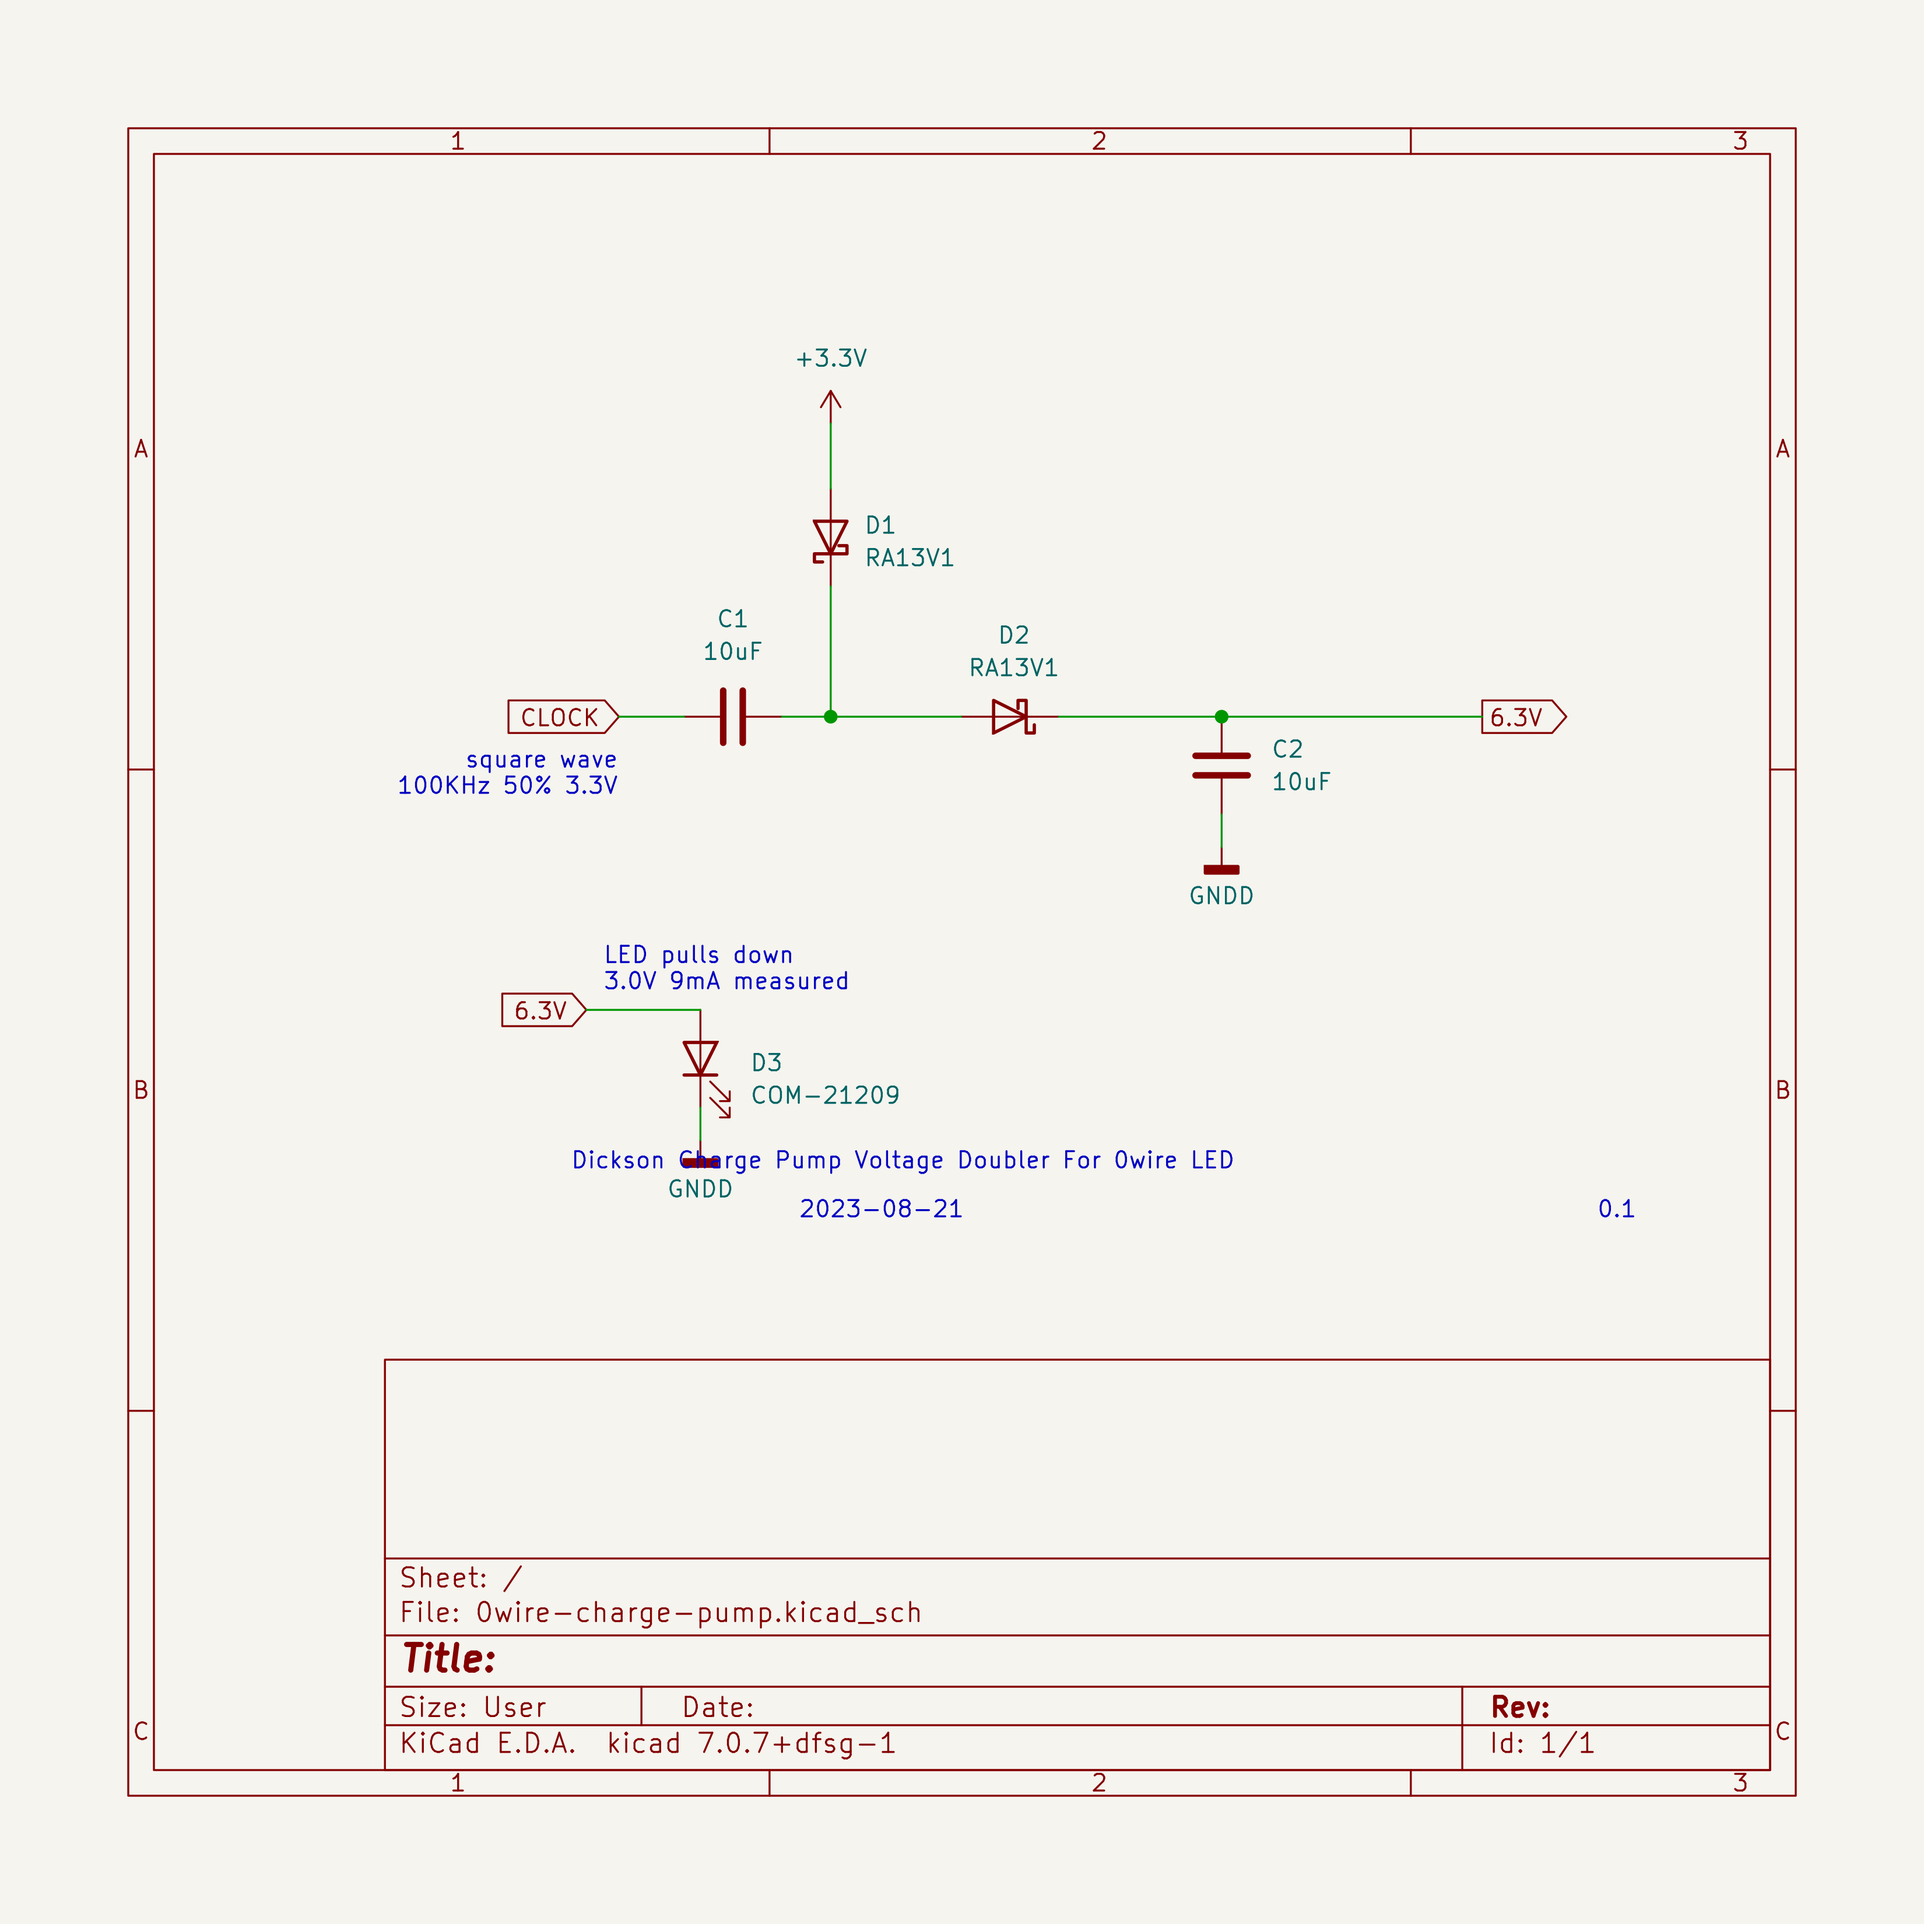
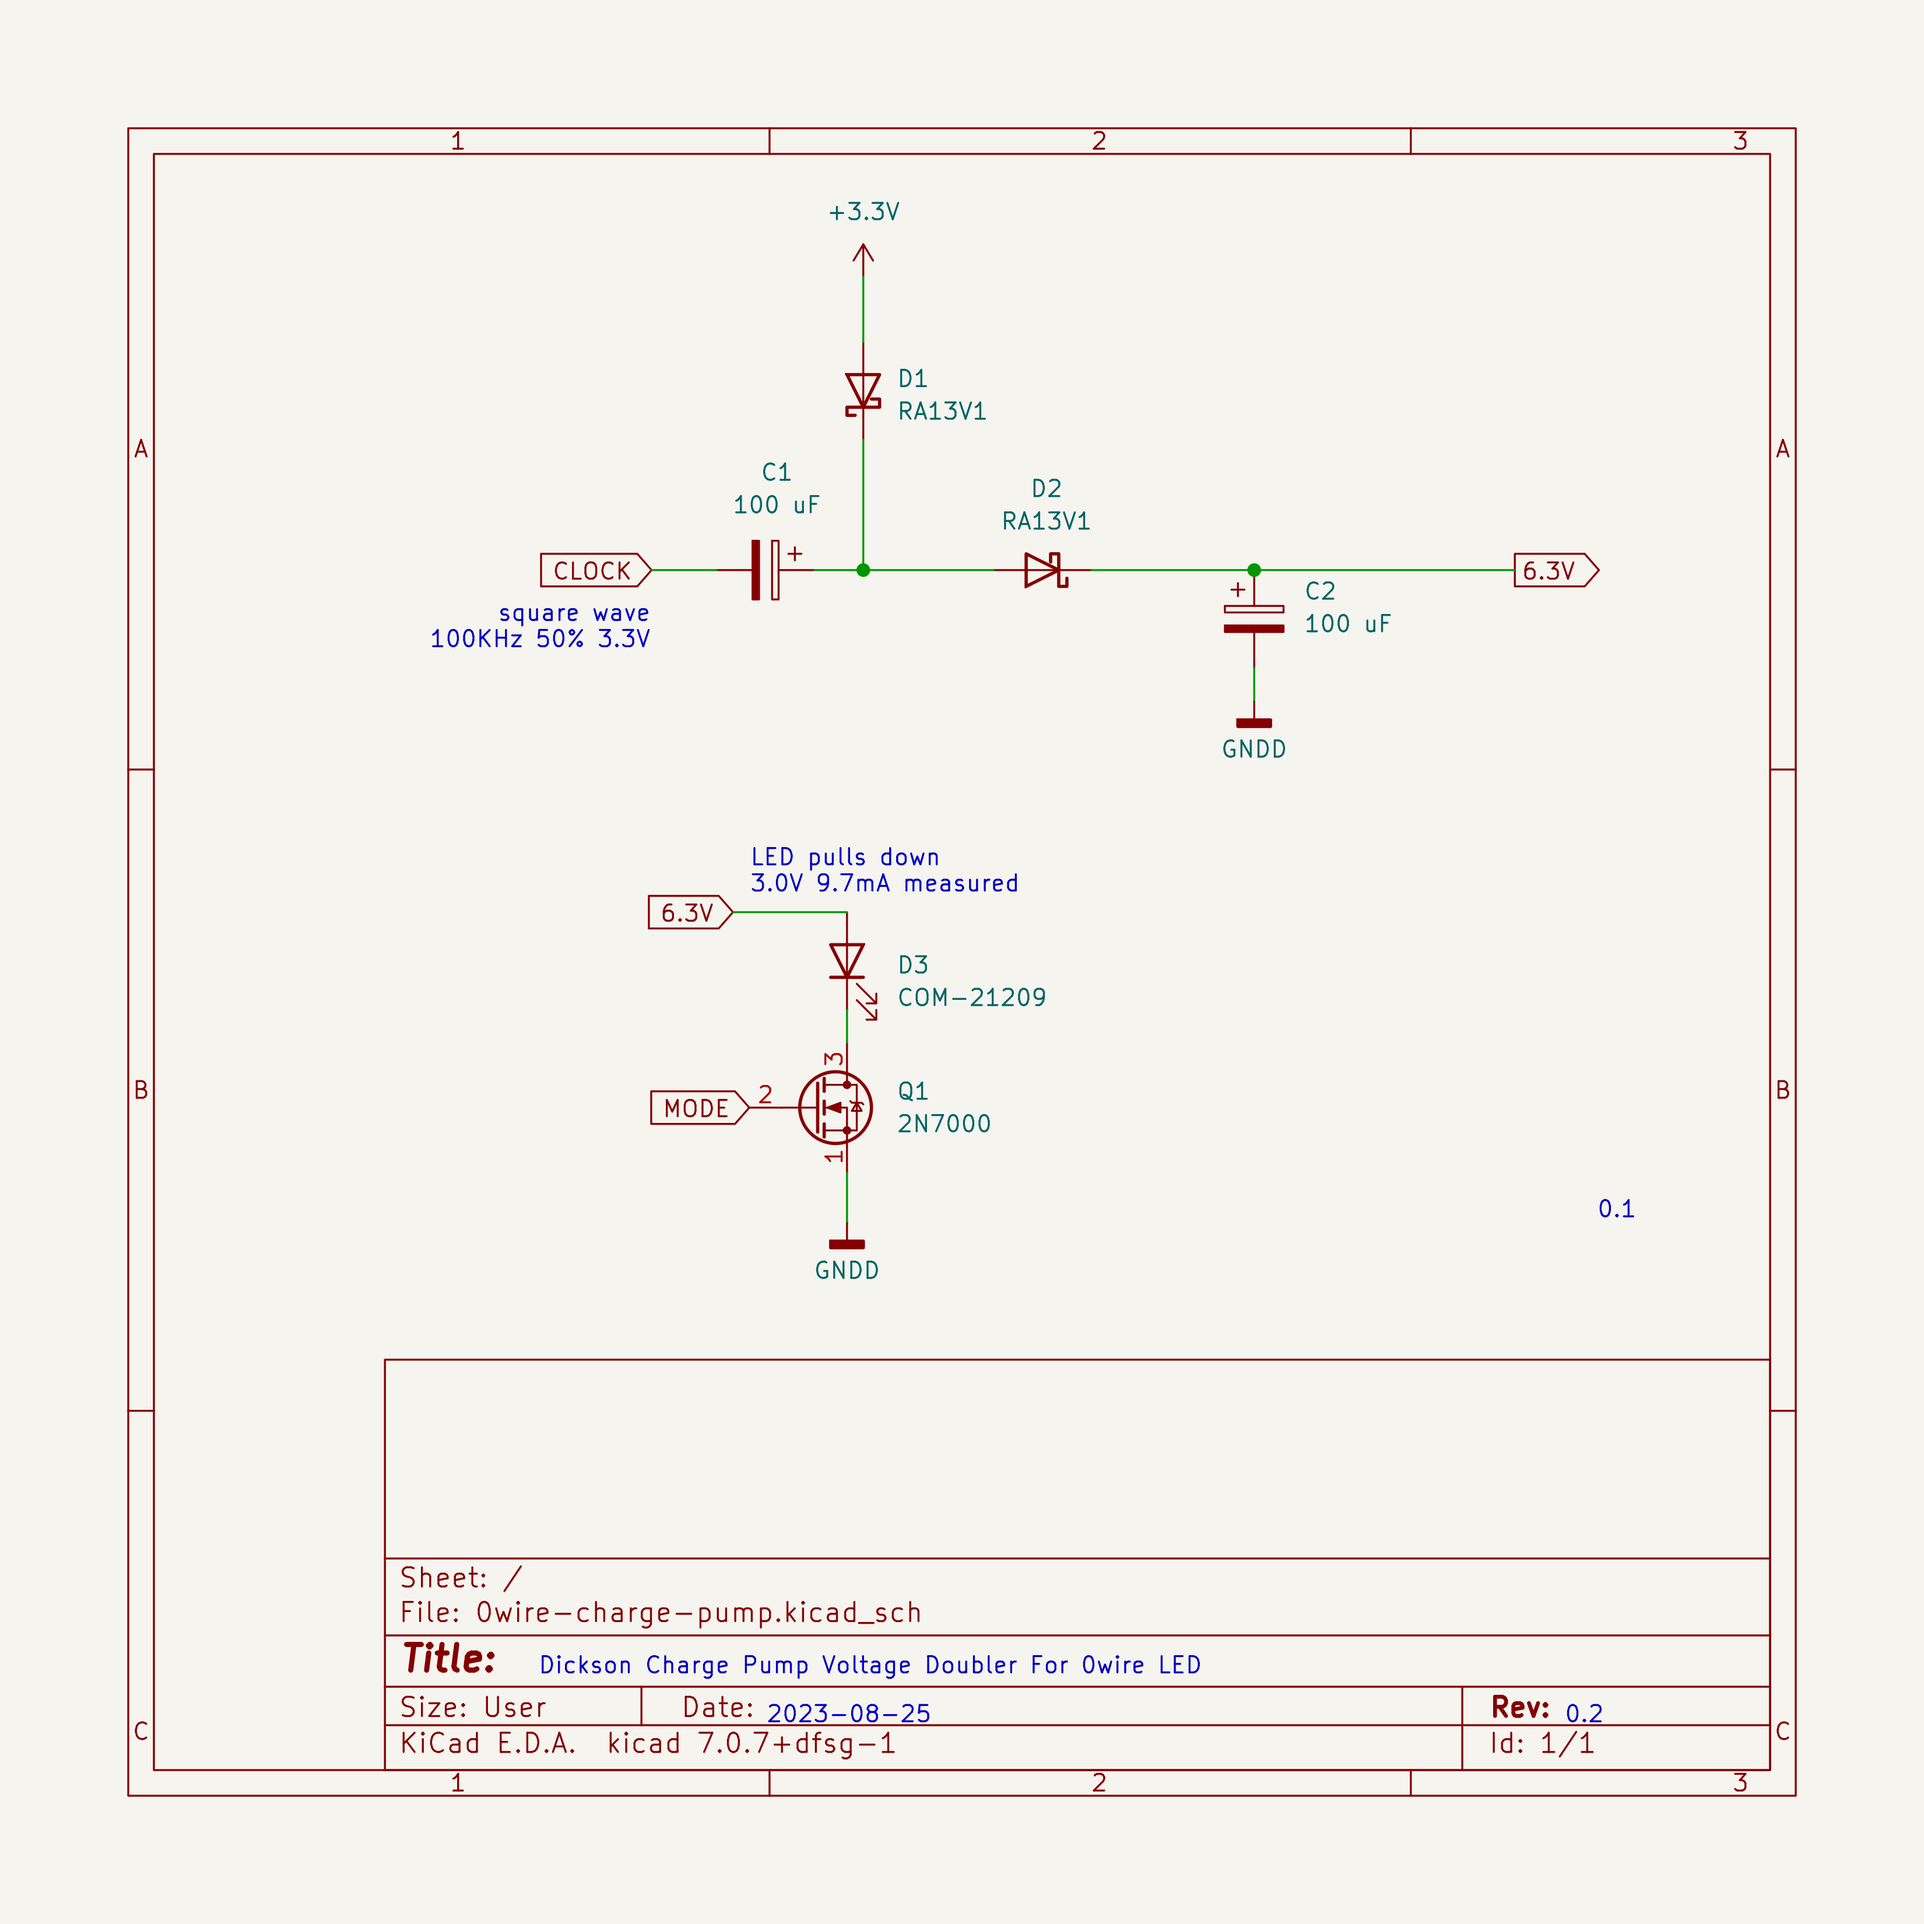
updated README for finished circuit

diff --git a/README.md b/README.md
@@ -6,18 +6,18 @@ the MicroBit v2.
 
 This version features a partially soft voltage doubler
 circuit. A 100KHz square wave is output on P16 of the MB2
-edge connector. This output is used to drive a [Dickson
-charge pump](https://en.wikipedia.org/wiki/Voltage_doubler#Dickson_charge_pump)
+edge connector. This output is used to drive a [Dickson charge
+pump](https://en.wikipedia.org/wiki/Voltage_doubler#Dickson_charge_pump)
 to provide a voltage around 6.5V open, adequate to fully
 drive the green and blue LEDs in the 0-wire. In (white)
-operation the LED draws about 9mA of current, pulling the
+operation the LED draws about 10mA of current, pulling the
 doubler output down to about 3V.
 
-![Charge pump circuit](0wire-charge-pump.png)
-
-An NMOS switch will be used to provide the 0-wire signal for
+An NMOS switch is used to provide the 0-wire signal for
 the LED, as the LED supply cannot be toggled quickly enough
 by manipulating the PWM due to capacitor discharge times.
+
+![Charge pump circuit](0wire-charge-pump.png)
 
 # License
 
